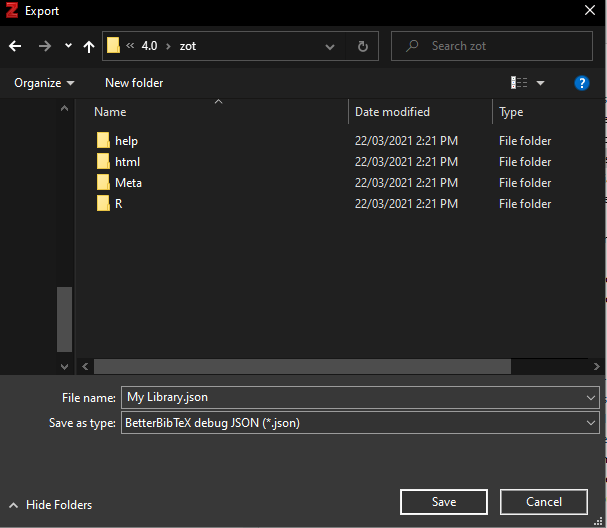
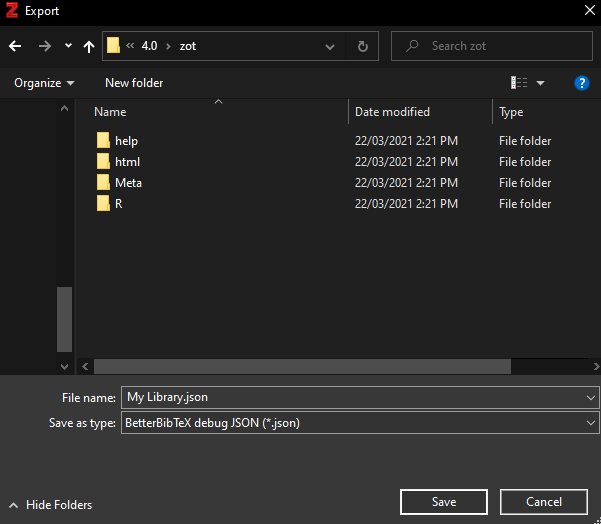
img cropping

diff --git a/README.md b/README.md
@@ -34,7 +34,7 @@ To use this package, an automatic export from Zotero needs to be set up.
 
 **3. Save the JSON to zot’s directory (wherever R installed it)**
 
-<img src="static/img/directory.png" width="607" />
+<img src="static/img/directory.png" width="601" />
 
 # Usage
 
